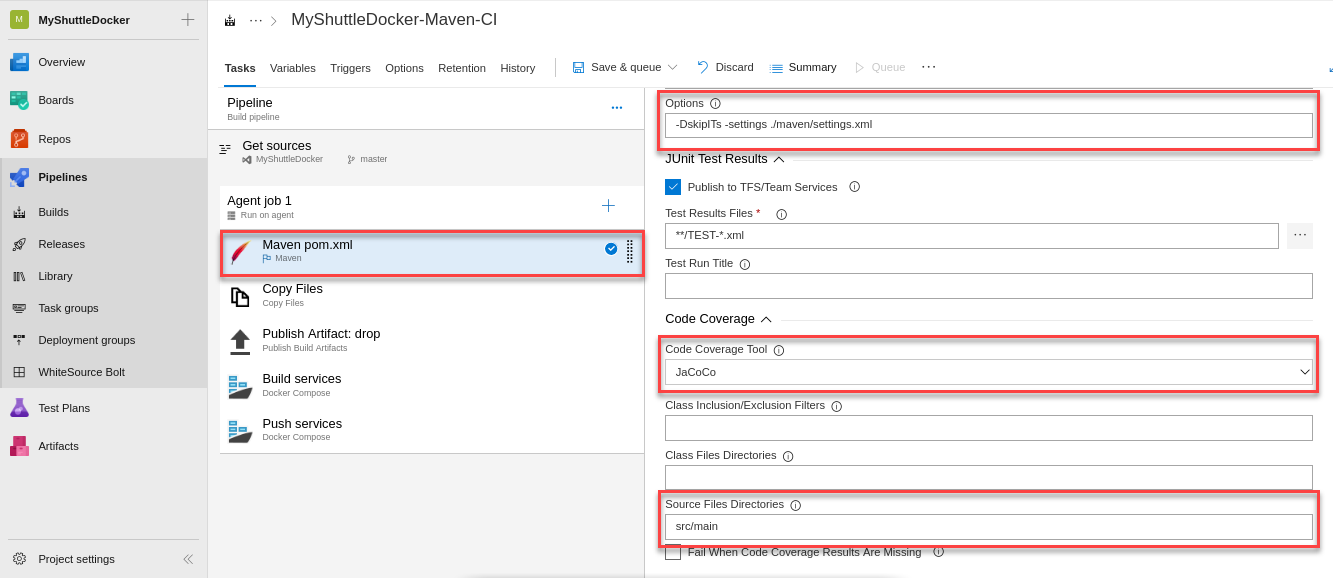
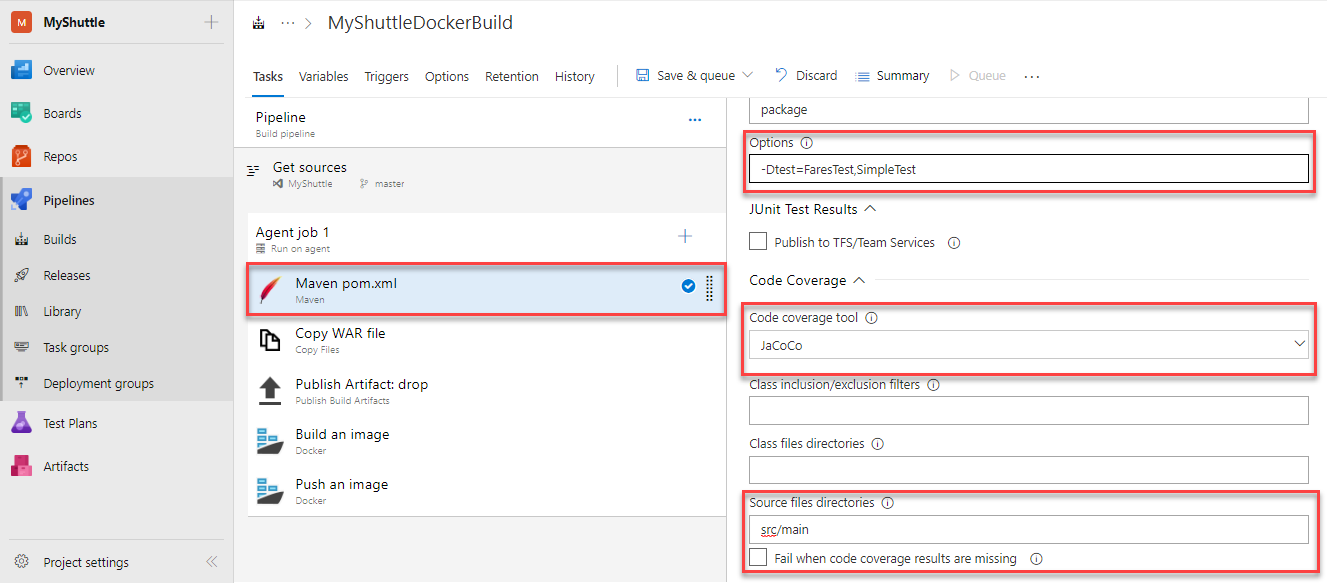
updated lab content and screenshots

diff --git a/labs/vstsextend/eclipse/readme.md b/labs/vstsextend/eclipse/readme.md
@@ -20,7 +20,7 @@ This lab will walk you through a typical end-to-end workflow for a Java develope
 
 In this lab, you will
 
-* Provision a Azure DevOps Organization team project with some sample data and users
+* Provision a Azure DevOps Organization team project with sample data and users
 * Install **Eclipse Photon** and **Team Explorer Everywhere**, the Azure DevOps plug-in for Eclipse
 * Install and explore **Azure Toolkit for Eclipse**
 * Setup an Azure Build pipeline to build and test the code, then push it to a Azure Container Registry
@@ -36,7 +36,7 @@ In this lab, you will
 
 1. You will need the [**Docker Integration**](https://marketplace.visualstudio.com/items?itemName=ms-vscs-rm.docker){:target="_blank"} extension installed and enabled on your Azure DevOps Organization.
 
-1. You will need to provision a team project with [Azure DevOps Demo Generator](https://vstsdemogenerator.azurewebsites.net/?TemplateId=77373&Name=myshuttledocker). The template **MyShuttleDocker** is used here.
+1. You will need to provision a team project with [Azure DevOps Demo Generator](https://azuredevopsdemogenerator.azurewebsites.net/?TemplateId=77371&Name=MyShuttle). The template **MyShuttle** is used here.
 
 
 ## Exercise 1: Setting up Eclipse
@@ -71,11 +71,24 @@ Having setup an Azure DevOps Organization project, we will now set up Eclipse.
 
     ![Checkout from Team Services Git](images/showtee2.png) 
 
-1. From the **Team Explorer** view, click the link to **Connect to a Team Foundation Server or Team Services account**, then type in the name of the Azure DevOps Organization (`https://dev.azure.com/{your-account-name}`) and press the **Next** button.
+1. From the **Team Explorer** view, click the link to **Connect to a Team Foundation Server or Team Services account**, then type in the name of the Azure DevOps Organization (`https://{your-account-name}.visualstudio.com`) and press the **Next** button.
 
-    The "Follow the instructions to complete sign-in" window will pop up. Click on the hyperlink to be redirected to the Device Login page in a browser on the VM (Note that link may have a black background for security purposes).
+    ![Connect](images/connect.png)
 
-1. Log in to authenticate the Azure DevOps Organization.
+1. Choose the radio button next to "Connect to a Team Foundation Server or Azure DevOps Services account" then press the "Servers..." button. In the "Add/Remove Team Foundation Server" panel, click "Add..." and type in the name of the Azure DevOps organization (https://{your-account-name}.visualstudio.com) in the "Add Team Foundation Server" panel. Then press the OK button.
+
+1. The "Follow the instructions to complete sign-in" window will pop up. Click on the hyperlink to be redirected to the Device Login page in a browser on the VM (may have a black background for security purposes).
+
+    ![Device Login](images/mscode.png)
+
+1. Copy the code in the text field in Eclipse and paste it into the browser page, then press the "Continue" button. Then sign in with your credentials used to access Azure DevOps Services. If you get the credentials wrong you can try again by closing Eclipse, deleting ~/.microsoft/Team Explorer/4.0/*, and restarting Eclipse.
+
+    ![Device Login Page](images/deviceloginpage.png)
+
+1. Back in Eclipse, press the OK button in the device login window. The Azure DevOps organization should now show up in the list of servers to connect to. Press the "Close" button to close the current window.
+
+    ![Accounts](images/vstsaccounts.png)
+
 
 1. Choose the **Team Project** that you provisioned with *Azure DevOps Demo Generator* at the start of this lab and click **Finish**.
 
@@ -85,7 +98,7 @@ Next, clone the **Azure Repos Git repository** to a local Git repository and imp
 
 1. In the **Team Explorer** panel, choose **Git Repositories**. This will list all the Git repositories in the project.
 
-1. Right-click the **MyShuttleDocker** repo in the team project and select **Import Repository**
+1. Right-click the **MyShuttle** repo in the team project and select **Import Repository**
 
     ![Select the VSTS repo](images/eclipse-select-repo.png "Select the VSTS repo")
 
@@ -103,7 +116,7 @@ Next, clone the **Azure Repos Git repository** to a local Git repository and imp
 
     ![Import the Maven project](images/eclipse-import-existingmavenprojects.png "Import the Maven project")
 
-    For the root directory, click on the Browse button or type in the root directory path of /home/vmadmin/MyShuttleDocker. The pom.xml file should appear under projects to indicate the Maven project. Additionally, click the checkbox next to **Add project(s) to working set** to add myshuttle to the working set to access in the Package Explorer window as a separate project. Then click the Finish button
+    For the root directory, click on the Browse button or type in the root directory path of "C:\Users\{your-user-name}\git\MyShuttle". The pom.xml file should appear under projects to indicate the Maven project. Additionally, click the checkbox next to **Add project(s) to working set** to add myshuttle to the working set to access in the Package Explorer window as a separate project. Then click the Finish button
 
     ![Import the Maven project](images/eclipse-select-mavenproject.png "Import the Maven project")
 
@@ -121,7 +134,7 @@ In this task, you will configure the Azure Pipelines build definition that will 
 
     ![Create Azure Container Registry](images/createacr.png)
 
-1. Return to  Azure DevOps Organization and click **Pipelines --> Build** hub, edit the **MyShuttleDocker-Maven-CI** build. This build definition contains a *maven* task to build the pom.xml file. In the  maven task, set the following parameter values
+1. Return to  Azure DevOps Organization and click **Pipelines --> Build** hub, edit the **MyShuttleDockerBuild** build. This build definition contains a *maven* task to build the pom.xml file. In the  maven task, set the following parameter values
 
    |Parameter|Value|Notes|
    |---------|-----|-----|
@@ -133,14 +146,14 @@ In this task, you will configure the Azure Pipelines build definition that will 
 
 1. There is a **Copy** and **Publish** task to copy the artifacts to the staging directory and publish to Azure DevOps (or a file share).
 
-1. Next we use the **Docker Compose** task to build and publish the images. The settings of the 2 Docker compose tasks - **Build services** and **Push services** are as follows:
+1. Next we use the **Docker Compose** task to build and publish the images. The settings of the 2 Docker compose tasks - **Build an image** and **Push an image** are as follows:
 
     |Parameter|Value|Notes|
     |---------|------|-----|
     |Container Registry Type|Azure Container Registry|This is to connect to the Azure Container Registry you created earlier|
     |Azure Subscription|Your Azure subscription|You need to authorize the subscription that contains your registry|
     |Azure Container Registry|Your registry|You need to select the Azure Container registry you created earlier|
-    |Additional Image Tags|`$(Build.BuildNumber)`|Sets a unique tag for each instance of the build|
+    |Image Name|`Web:$(Build.BuildNumber)`|Sets a unique tag for each instance of the build|
     |Include Latest Tag|Check (set to true)|Adds the `latest` tag to the images produced by this build|
 
 1. Click the "Save and Queue" button to save and queue this build. Make sure you are using the **Hosted Ubuntu 1604** agent.
@@ -184,32 +197,38 @@ In this exercise, we will setup a Release pipeline to deploy the web application
  
     We could configure *Continuous Deployment* to deploy the web app when a new image is pushed to the registry, within the Azure portal itself. However, setting up an Azure Pipeline will provide more flexibility and additional controls (approvals, release gates, etc.) for application deployment.
 
-1. Back in Azure DevOps account, select **Releases** from the **Pipelines** hub. Select the Release definition and click *Edit Pipeline*.
+1. Back in Azure DevOps account, select **Releases** from the **Pipelines** hub. Select the Release definition **MyShuttleDockerRelease** and click *Edit Pipeline*.
 
      ![editrelease](images/editrelease.png)
 
-1. Hover the mouse on **Tasks** and select **Environment 1**. Configure the environment as below - 
+1. Hover the mouse on **Tasks** and select **Azure-Dev**. Configure the environment as below - 
 
-    * Pick the Azure subscription
-    * Select **Linux App** for the **App Type**
+    * Pick the Azure subscription and click **Authorize** to authorize the credentials
     * Enter the **App Service** that you created
-    * Enter the **Container Registry** login server in the form of `containerregistry`.azurecr.io
-    * Enter ***web*** for the **Repository**
 
     ![VSTS Release Defintion](images/vsts-cd-webapp.png)
 
 1. Select the **Execute Azure MYSQL:SqlTaskFile** task, choose the Azure subscription, and provide the DB details which were noted down earlier during the creation of the database server. 
 
-    * Select the *Host Name* from the drop down. You can find this value in the **Properties** page of the created MYSQL database in Azure portal.
-    * Enter the *Server Admin Login*. You can find this value in the **Properties** page of the created MYSQL database in Azure portal.
-    * Enter the *Password*. This is the password provided during the creation of MYSQL database in Azure portal.
-    * A *MYSQL script* that is version controlled and provided here which creates the database, tables and populate records.
+    * Select the *Host Name* from the drop down. 
+    * A version controlled *MYSQL script* is provided here which creates the required database *alm*, tables and finally, populate records.
 
     ![MySQL DB](images/mysqlcreatetask.png)
 
-    > After the database, tables and records are created for the *first time*, we need to disable the task for further deployments. Right click on the task and select **Disable selected task(s)** and save.
+1. For the parameters - **$(DBUSER)** and **$(DBPASSWORD)**, click the **Variables** section and enter the corresponding values -
 
-1. Select the **Deploy Azure App Service** task and make sure that these settings are reflected correctly. Note that the task allows you to specify the **Tag** that you want to pull. This will allow you to achieve end-to-end traceability from code to deployment by using a build-specific tag for each deployment. For example, with the Docker build tasks  you can tag your images with the *Build.Number* for each deployment.
+    * **$(DBSERVER)** corresponds to the **SERVER NAME** value in the *Properties* section of the created MYSQL server in Azure Portal. 
+    * **$(DBUSER)** corresponds to the **SERVER ADMIN LOGIN NAME** value in the *Properties* section of the created MYSQL server in Azure Portal.
+    * **$(DBPASSWORD)** corresponds to the **Password** provided during the creation of the MYSQL server in Azure Portal.
+
+    ![MySQL DB](images/variables.png)
+
+1. Select the **Deploy Azure App Service** task and make sure that the following values are provided. Note that the task allows you to specify the **Tag** that you want to pull. This will allow you to achieve end-to-end traceability from code to deployment by using a build-specific tag for each deployment. For example, with the Docker build tasks  you can tag your images with the *Build.Number* for each deployment.
+
+    * Azure Subscription - Choose the correct Azure subscription from drop down.
+    * Registry or Namespace - Provide the value of **Login server** of the created **Container Registry**. You will find it in the *Overview* section.
+    * Image -  Provide the value as **web**. This is where the container image is stored after build.
+    * Tag - Provide the value as **$(Build.BuildNumber)**.
 
     ![Build Tags](images/vsts-buildtag.png)
 
@@ -221,22 +240,27 @@ In this exercise, we will setup a Release pipeline to deploy the web application
 
 ## Exercise 5: Configuring MySQL connection strings in the Web App
 
-1. Navigate to the Web app that you have created. Click **Application Settings** and scroll down to the **Connection Strings** section
+1. From the Azure portal, select the Web app you provisioned. Select **Application Settings** and scroll down to the **Connection Strings** section.
 
-1. Add a new MySQL connection string with **MyShuttleDb** as the name and the following string - `jdbc:mysql://`**`{MySQL Server Name}`**`.mysql.database.azure.com:3306/alm?useSSL=true&requireSSL=false&autoReconnect=true&user=`**`{your user name}`**`@`**`{MySQL Server Name}`**`&password=`**`{your password}`**. Replace the following with values that you have noted down
+1. Click **+ Add new connection** string, change the type to **MySQL**, name as **MyShuttleDb** and paste the following string for the value and replace MySQL Server Name, your user name and your password with the appropriate values -
 
-    * MYSQL Server Name - **Server Name** in the MYSQL Server *Properties* page
-    * Your user name -  **SERVER ADMIN LOGIN NAME** in the MYSQL Server *Properties* page  
-    * Your password -**Password** that you provided during the creation of MYSQL server in Azure
+    > `jdbc:mysql://{MySQL Server Name}:3306/alm?useSSL=true&requireSSL=false&autoReconnect=true&user={your user name}&password={your password}`
 
-1. Click **Save** to save the connection string.
+    * MySQL Server Name : Value that you copied previously from the MySQL server Properties.
+    * your user name : Value that you copied previously from the MySQL server Properties.
+    * your password : Value that you provided during the creation of MYSQL database server in the Deploy to Azure phase.
+
+    ![MYSQL DB Connection](images/mysqldbconnstring.png)
+
+1. Click on Save to save the connection string.
+
+You have now setup and configured all the resources that is needed to deploy and run the MyShuttle application.
 
 1. You should be able to login to the application now. Return to the login page and try logging in using any of the below *username/password* combination:
 
     * *fred/fredpassword*
     * *wilma/wilmapassword*
-    * *betty/bettypassword*
-    
+    * *betty/bettypassword*    
 
 ## Next: End to End workflow with Eclipse
 
